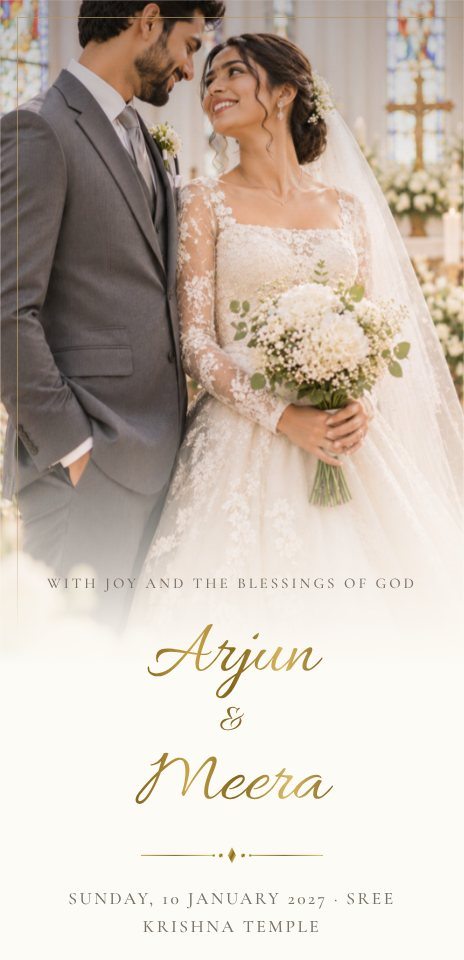
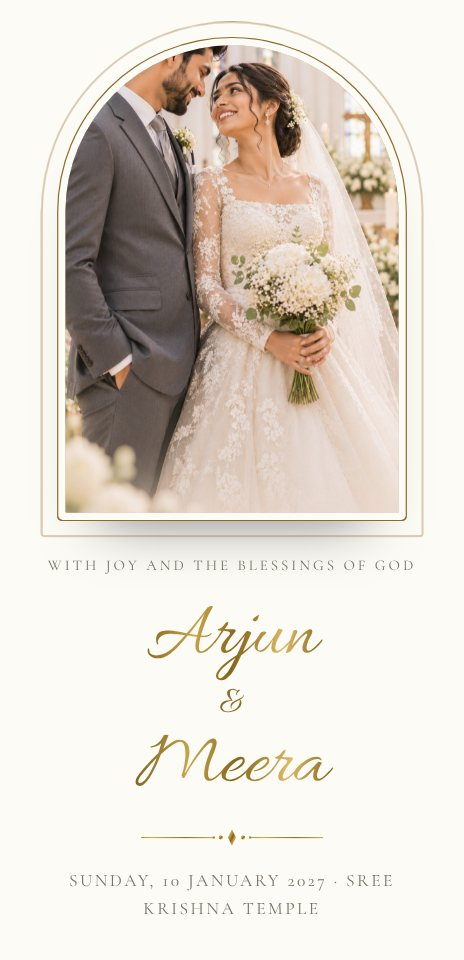
Designs open differently (arch, medallion, full screen, polaroid, split) with ticket and band event styles; new Monochrome design; demo film plays in the hero phone
Claude-Session: https://claude.ai/code/session_01HTLJ5qXdA6w9sojxHduBi6

diff --git a/assets/invite.js b/assets/invite.js
@@ -33,7 +33,8 @@
     thamara: 'family=Parisienne&family=Lora:ital,wght@0,400;0,500;1,400',
     mayil: 'family=Rouge+Script&family=EB+Garamond:ital,wght@0,400;0,500;1,400',
     jaipur: 'family=Gloock&family=Lora:ital,wght@0,400;0,500;1,400',
-    gulmohar: 'family=Tangerine:wght@700&family=Lora:ital,wght@0,400;0,500;1,400'
+    gulmohar: 'family=Tangerine:wght@700&family=Lora:ital,wght@0,400;0,500;1,400',
+    mono: 'family=Playfair+Display:ital,wght@0,400;0,500;1,400;1,500&family=Manrope:wght@300;400;500;600'
   };
   // Opening lines that suit each design when the couple leaves them empty.
   var DEFAULTS = {
@@ -44,7 +45,8 @@
     kesar: { intro: 'With the blessings of Waheguru', line: 'request your presence at their Anand Karaj' },
     gopuram: { intro: '|| Shree Ganeshaya Namah ||', line: 'invite you to grace their auspicious wedding' },
     sindoor: { intro: '|| Shubh Vivah ||', line: 'invite you to celebrate their wedding' },
-    jaipur: { intro: '|| Shubh Vivah ||', line: 'request the pleasure of your company at their wedding' }
+    jaipur: { intro: '|| Shubh Vivah ||', line: 'request the pleasure of your company at their wedding' },
+    mono: { intro: 'Save the date', line: 'are getting married' }
   };
   // Indian scripts: Google serves these with unicode-range, so they only download when the text uses them.
   var SCRIPT_FONTS = 'family=Noto+Serif+Malayalam:wght@400;600&family=Noto+Serif+Devanagari:wght@400;600&family=Noto+Serif+Kannada:wght@400;600&family=Noto+Serif+Tamil:wght@400;600&family=Noto+Serif+Telugu:wght@400;600&family=Noto+Serif+Gurmukhi:wght@400;600&family=Amiri:wght@400;700';
@@ -63,6 +65,10 @@
     if ((m = /vimeo\.com\/(?:video\/)?(\d+)/.exec(url))) return 'https://player.vimeo.com/video/' + m[1] + '?autoplay=1&muted=1&loop=1&playsinline=1';
     if ((m = /drive\.google\.com\/(?:file\/d\/|open\?id=)([\w-]{20,})/.exec(url))) return 'https://drive.google.com/file/d/' + m[1] + '/preview';
     return '';
+  }
+  // the couple's film playing silently behind the names, in place of the cover photo
+  function filmCover(url, title, poster) {
+    return '<div class="wl-slides wl-film">' + (poster ? '<img class="on" src="' + esc(poster) + '" alt="">' : '') + '<iframe src="' + esc(url.replace('controls=1', 'controls=0')) + '" title="' + esc(title) + ' film" tabindex="-1" allow="autoplay; encrypted-media" referrerpolicy="strict-origin-when-cross-origin"></iframe></div>';
   }
   var VIDEO_TITLE = { prewedding: 'Our pre-wedding film', wishes: 'Wishes from our families', story: 'Our story' };
 
@@ -253,7 +259,7 @@
   }
 
   function divider(theme) {
-    var c = theme === 'marigold' ? '#E0700A' : theme === 'mullappoo' ? '#5D8B69' : theme === 'thamara' ? '#B5546B' : theme === 'classic' ? '#2B2B2B' : theme === 'blush' ? '#C27A86' : theme === 'lavender' ? '#8C78B4' : theme === 'mehndi' ? '#C9A24A' : theme === 'bloom' ? '#C27A86' : theme === 'sage' ? '#6B7A55' : theme === 'seal' ? '#A88A5E' : theme === 'ink' ? '#5A2E2A' : theme === 'toile' ? '#2F4A7A' : foil(theme);
+    var c = theme === 'mono' ? '#1A1A1A' : theme === 'marigold' ? '#E0700A' : theme === 'mullappoo' ? '#5D8B69' : theme === 'thamara' ? '#B5546B' : theme === 'classic' ? '#2B2B2B' : theme === 'blush' ? '#C27A86' : theme === 'lavender' ? '#8C78B4' : theme === 'mehndi' ? '#C9A24A' : theme === 'bloom' ? '#C27A86' : theme === 'sage' ? '#6B7A55' : theme === 'seal' ? '#A88A5E' : theme === 'ink' ? '#5A2E2A' : theme === 'toile' ? '#2F4A7A' : foil(theme);
     return '<svg class="wl-div" viewBox="0 0 200 20" aria-hidden="true"><rect x="10" y="9.5" width="72" height="1" fill="' + c + '"/><rect x="118" y="9.5" width="72" height="1" fill="' + c + '"/>' +
       '<g fill="' + c + '" transform="translate(100,10)"><path d="M0,-8 L4,0 L0,8 L-4,0Z"/><circle cx="-11" r="2"/><circle cx="11" r="2"/><circle cx="-18" r="1.2"/><circle cx="18" r="1.2"/></g></svg>';
   }
@@ -267,7 +273,7 @@
     '<radialGradient id="wlLampIn"><stop offset="0" stop-color="#FFF4C4"/><stop offset=".7" stop-color="#FFC75A"/><stop offset="1" stop-color="#E08A1E"/></radialGradient>' +
     '</defs></svg>';
 
-  var LIGHT = { lavender: 1, mughal: 1, bloom: 1, lumiere: 1, journal: 1, vogue: 1, sage: 1, seal: 1, ink: 1, toile: 1, classic: 1, blush: 1, kasavu: 1, champagne: 1, chapel: 1, jaipur: 1, gulmohar: 1, grace: 1, mullappoo: 1, thamara: 1, marigold: 1 };
+  var LIGHT = { mono: 1, lavender: 1, mughal: 1, bloom: 1, lumiere: 1, journal: 1, vogue: 1, sage: 1, seal: 1, ink: 1, toile: 1, classic: 1, blush: 1, kasavu: 1, champagne: 1, chapel: 1, jaipur: 1, gulmohar: 1, grace: 1, mullappoo: 1, thamara: 1, marigold: 1 };
   function foil(theme) { return theme === 'grace' ? 'url(#wlSilver)' : (LIGHT[theme] ? 'url(#wlFoilD)' : 'url(#wlFoil)'); }
 
   function bokeh(seed, n, w, h) {
@@ -461,6 +467,15 @@
   /* ---------- premium art: sage, seal, ink, toile ---------- */
   var TIMELINE = { sage: 1, ink: 1, toile: 1, journal: 1 };
   var PHOTO_LED = { lumiere: 1, journal: 1, vogue: 1, bloom: 1 };
+  // Each design opens differently: the shape of the cover photo and how the names sit with it
+  var COVER = { noor: 'arch', qamar: 'arch', mughal: 'arch', jaipur: 'arch', chapel: 'arch',
+    kasavu: 'circle', mullappoo: 'circle', thamara: 'circle', nilavu: 'circle', gopuram: 'circle',
+    velvet: 'full', sindoor: 'full', kesar: 'full', marigold: 'full', mehndi: 'full', mono: 'full',
+    seal: 'polaroid', ink: 'polaroid', sage: 'polaroid',
+    grace: 'split', toile: 'split', mayil: 'split', gulmohar: 'split' };
+  // ...and lists the celebrations in its own way
+  var EVSTYLE = { champagne: 'ticket', velvet: 'ticket', mono: 'ticket', vogue: 'ticket', lumiere: 'ticket', gulmohar: 'ticket', grace: 'ticket', lavender: 'ticket',
+    sindoor: 'band', kesar: 'band', marigold: 'band', mehndi: 'band', gopuram: 'band', jaipur: 'band', mayil: 'band', noor: 'band', qamar: 'band' };
   // Premium designs get an animated header: photos fading in, plus moving decor
   var ANIM = { bloom: 'petals', mughal: 'sparkle', lumiere: 'petals', journal: 'petals', seal: 'petals', jaipur: 'petals', sage: 'petals', ink: 'petals',
     vogue: 'sparkle', velvet: 'sparkle', mayil: 'sparkle', gopuram: 'sparkle', chapel: 'sparkle', toile: 'sparkle', qamar: 'lanterns' };
@@ -582,6 +597,7 @@
       case 'mayil': return peacock() + bokeh(9, 16, 400, 700);
       case 'jaipur': return jharokha();
       case 'gulmohar': return gulmoharBranch(4, false) + gulmoharBranch(8, true);
+      case 'mono': return '<div class="wl-mono-rules" aria-hidden="true"><i></i><i></i></div>';
     }
     return '';
   }
@@ -619,16 +635,17 @@
     if (!v.events.length) return '';
     var cards = v.events.map(function (ev) {
       var map = mapLink(ev);
-      return '<article class="wl-ev">' + evIcon(ev.name) + (TIMELINE[v.theme] && ev.time ? '<p class="wl-ev-t">' + esc(time12(ev.time)) + '</p>' : '') +
+      var st = EVSTYLE[v.theme], dp = ev.date ? parts(ev.date) : null;
+      return '<article class="wl-ev">' + (st && dp ? '<div class="wl-ev-stub" aria-hidden="true"><span>' + DAYS[dp.wd].slice(0, 3) + '</span><b>' + dp.d + '</b><span>' + MONTHS[dp.mo].slice(0, 3) + '</span></div><div class="wl-ev-main">' : '') + evIcon(ev.name) + (TIMELINE[v.theme] && ev.time ? '<p class="wl-ev-t">' + esc(time12(ev.time)) + '</p>' : '') +
         '<h3>' + esc(ev.name || 'Wedding') + '</h3>' +
         (ev.date ? '<p class="wl-ev-when">' + esc(longDate(ev.date)) + (ev.time && !TIMELINE[v.theme] ? '<br>' + esc(time12(ev.time)) : '') + '</p>' : '') +
         (ev.venue ? '<p class="wl-ev-venue">' + esc(ev.venue) + '</p>' : '') +
         (ev.address ? '<p class="wl-ev-addr">' + nl2br(ev.address) + '</p>' : '') +
         '<div class="wl-ev-acts">' + (map ? '<a class="wl-btn" href="' + esc(map) + '" target="_blank" rel="noopener">Directions</a>' : '') +
         (ev.date ? '<a class="wl-btn ghost" href="' + esc(calLink(ev, title)) + '" target="_blank" rel="noopener">Add to calendar</a>' : '') + '</div>' +
-        '</article>';
+        (st && dp ? '</div>' : '') + '</article>';
     }).join('');
-    return '<section class="wl-sec wl-events' + (TIMELINE[v.theme] ? ' wl-tl' : '') + '" data-sec="events"><h2>' + (v.events.length > 1 ? 'Celebrations' : 'The celebration') + '</h2>' + divider(v.theme) + cards + '</section>';
+    return '<section class="wl-sec wl-events' + (TIMELINE[v.theme] ? ' wl-tl' : EVSTYLE[v.theme] ? ' wl-ev-' + EVSTYLE[v.theme] : '') + '" data-sec="events"><h2>' + (v.events.length > 1 ? 'Celebrations' : 'The celebration') + '</h2>' + divider(v.theme) + cards + '</section>';
   }
 
   function rsvpHtml(v, mode) {
@@ -691,6 +708,7 @@
     var first = v.main;
     var photos = v.photos;
     var showCover = opts.cover && mode !== 'editor';
+    var film = opts.filmCover && /youtube|vimeo/.test(v.video) ? filmCover(v.video, title, photos[0] || v.bg) : '';
 
     // A photo-led design's sample couple photo is only for building and browsing designs;
     // a couple's own preview and live invite never show someone else's photo.
@@ -726,7 +744,7 @@
       var heroImg = photos[0] || v.bg || '';
       var dp = first && first.date ? parts(first.date) : null;
       html += '<header class="wl-hero wl-pl" data-sec="hero">' +
-        '<div class="wl-pl-img' + (heroImg ? '' : ' none') + '" data-sec="photos">' + (heroImg ? slides(photos.length ? photos.slice(0, 5) : [heroImg], title) : '') + particles(ANIM[v.theme]) +
+        '<div class="wl-pl-img' + (heroImg ? '' : ' none') + '" data-sec="photos">' + (film || (heroImg ? slides(photos.length ? photos.slice(0, 5) : [heroImg], title) : '')) + particles(ANIM[v.theme]) +
           (mode === 'editor' && !photos.length ? '<span class="wl-pl-add">' + (heroImg ? 'Sample photo. Add yours in the Photos step' : 'Add your photo in the Photos step') + '</span>' : '') + '</div>' +
         '<div class="wl-pl-in">' +
           (v.theme === 'vogue' ? '<p class="wl-pl-kick">The wedding of</p>' : '<p class="wl-intro">' + esc(v.intro) + '</p>') +
@@ -737,7 +755,7 @@
     } else {
     if (photos[0]) {
       var cp = first && first.date ? parts(first.date) : null;
-      html += '<header class="wl-hero wl-cv" data-sec="hero"><span class="wl-cv-frame" aria-hidden="true"></span>' + slides(ANIM[v.theme] ? photos.slice(0, 5) : [photos[0]], title) + particles(ANIM[v.theme]) +
+      html += '<header class="wl-hero wl-cv wl-cv-' + (COVER[v.theme] || 'classic') + '" data-sec="hero"><span class="wl-cv-frame" aria-hidden="true"></span>' + (film || slides(ANIM[v.theme] ? photos.slice(0, 5) : [photos[0]], title)) + particles(ANIM[v.theme]) +
         '<div class="wl-cv-in"><p class="wl-intro">' + esc(v.intro) + '</p>' +
         '<h1 class="wl-names"><span>' + esc(v.p1) + '</span><span class="wl-amp">&amp;</span><span>' + esc(v.p2) + '</span></h1>' +
         divider(v.theme) +

diff --git a/assets/invite.css b/assets/invite.css
@@ -828,3 +828,98 @@
 .wl-cv-in { margin-top: -80px; }
 /* Bloom: the arch shows the couple, not the soft misty bottom of the photo */
 .wl[data-theme=bloom] .wl-pl-img .wl-slides { bottom: -34%; }
+
+/* ===================== each design opens in its own way ===================== */
+.wl-cv-arch::after, .wl-cv-circle::after, .wl-cv-polaroid::after, .wl-cv-split::after { display: none !important; }
+.wl-cv-arch .wl-slides, .wl-cv-circle .wl-slides, .wl-cv-polaroid .wl-slides, .wl-cv-split .wl-slides { -webkit-mask-image: none !important; mask-image: none !important; overflow: hidden; }
+
+/* arch window: a mihrab / palace / chapel arch */
+.wl-cv-arch { padding: 38px 0 0 !important; }
+.wl-cv-arch .wl-slides { width: 72% !important; align-self: center !important; aspect-ratio: 3 / 4.2 !important; border-radius: 999px 999px 8px 8px;
+  box-shadow: 0 0 0 6px var(--page), 0 0 0 7px var(--acc), 0 34px 50px -30px rgba(0,0,0,.55); }
+.wl-cv-arch .wl-cv-frame { inset: 18px auto auto 50% !important; width: calc(72% + 40px); height: auto !important; aspect-ratio: 3 / 4.05 !important; transform: translateX(-50%);
+  border: 1px solid var(--acc) !important; border-radius: 999px 999px 12px 12px !important; -webkit-mask-image: none !important; mask-image: none !important; opacity: .55 !important; }
+.wl-cv-arch .wl-cv-in { margin-top: 34px !important; }
+
+/* circle medallion with a slowly turning dotted ring */
+.wl-cv-circle { padding: 52px 0 0 !important; }
+.wl-cv-circle .wl-slides { width: 68% !important; align-self: center !important; aspect-ratio: 1 !important; border-radius: 50%;
+  box-shadow: 0 0 0 7px var(--page), 0 0 0 8px var(--acc), 0 34px 50px -30px rgba(0,0,0,.5); }
+.wl-cv-circle .wl-slides img { object-position: 50% 18%; }
+.wl-cv-circle .wl-cv-frame { inset: 26px auto auto 50% !important; width: calc(68% + 52px); height: auto !important; aspect-ratio: 1 !important; margin-left: calc((68% + 52px) / -2);
+  border: 1.5px dashed var(--acc) !important; border-radius: 50% !important; -webkit-mask-image: none !important; mask-image: none !important; opacity: .6 !important; animation: wlTurn 60s linear infinite; }
+@keyframes wlTurn { to { transform: rotate(360deg); } }
+.wl-cv-circle .wl-cv-in { margin-top: 40px !important; }
+
+/* full screen: photo fills the phone, names in white over it */
+.wl-cv-full { display: block !important; height: 100svh !important; min-height: 600px !important; }
+.wl-cv-full .wl-slides { position: absolute !important; inset: 0 !important; height: 100% !important; aspect-ratio: auto !important; -webkit-mask-image: none !important; mask-image: none !important; }
+.wl-cv-full .wl-slides img { object-position: 50% 22%; }
+.wl-cv-full::after { top: 0 !important; bottom: 0 !important; height: auto !important; background: linear-gradient(180deg, rgba(0,0,0,.3) 0%, transparent 26%, transparent 42%, rgba(0,0,0,.5) 66%, rgba(0,0,0,.86) 100%) !important; }
+.wl-cv-full .wl-cv-frame { inset: 14px !important; height: auto !important; aspect-ratio: auto !important; border: 1px solid rgba(255,255,255,.5) !important; border-radius: 4px !important; -webkit-mask-image: none !important; mask-image: none !important; }
+.wl-cv-full .wl-cv-in { position: absolute !important; left: 0 !important; right: 0 !important; bottom: 0 !important; margin: 0 !important; padding: 0 26px 48px !important; }
+.wl-cv-full .wl-names > span:not(.wl-amp) { background: none !important; -webkit-text-fill-color: #fff !important; color: #fff !important; text-shadow: 0 2px 22px rgba(0,0,0,.4) !important; }
+.wl-cv-full .wl-intro, .wl-cv-full .wl-pl-date { color: rgba(255,255,255,.92) !important; text-shadow: 0 1px 8px rgba(0,0,0,.5) !important; }
+.wl-cv-full .wl-amp { color: #fff !important; opacity: .85; }
+.wl-cv-full .wl-div { filter: brightness(0) invert(1); opacity: .8; }
+.wl-cv-full .wl-cv-down { border-color: rgba(255,255,255,.75) !important; }
+.wl-cv-full .wl-cv-down::after { background: #fff !important; }
+
+/* polaroid: a tilted print with tape, names written underneath */
+.wl-cv-polaroid { padding: 46px 0 0 !important; }
+.wl-cv-polaroid .wl-slides { width: 76% !important; align-self: center !important; aspect-ratio: 4 / 4.7 !important; transform: rotate(-2.5deg); margin-bottom: 52px;
+  box-shadow: 0 0 0 12px #fff, 0 46px 0 12px #fff, 0 50px 40px -8px rgba(0,0,0,.28); }
+.wl-cv-polaroid .wl-cv-frame { inset: 30px auto auto 50% !important; width: 120px; height: 32px !important; aspect-ratio: auto !important; margin-left: -60px; transform: rotate(4deg);
+  background: rgba(255,248,226,.78); border: 0 !important; border-radius: 2px !important; box-shadow: 0 1px 4px rgba(0,0,0,.18); -webkit-mask-image: none !important; mask-image: none !important; opacity: 1 !important; z-index: 4; }
+.wl-cv-polaroid .wl-cv-in { margin-top: 18px !important; }
+
+/* split: names first, photo below with a colour block behind it */
+.wl-cv-split { padding: 44px 0 40px !important; }
+.wl-cv-split .wl-cv-in { order: -1; margin-top: 0 !important; padding-bottom: 26px !important; }
+.wl-cv-split .wl-cv-down { display: none; }
+.wl-cv-split .wl-slides { width: 80% !important; align-self: flex-end !important; aspect-ratio: 4 / 5 !important; border-radius: 180px 0 0 0; z-index: 1; }
+.wl-cv-split .wl-cv-frame { inset: auto auto 18px 0 !important; width: 58%; height: 46% !important; aspect-ratio: auto !important; background: color-mix(in srgb, var(--acc) 26%, var(--page));
+  border: 0 !important; border-radius: 0 !important; -webkit-mask-image: none !important; mask-image: none !important; opacity: 1 !important; z-index: 0; }
+
+/* ===================== celebrations: ticket and band styles ===================== */
+.wl-ev-ticket .wl-ev, .wl-ev-band .wl-ev { text-align: left !important; }
+.wl-ev-ticket .wl-ev-ic, .wl-ev-band .wl-ev-ic { display: none !important; }
+.wl-ev-ticket .wl-ev-acts, .wl-ev-band .wl-ev-acts { justify-content: flex-start !important; }
+.wl-ev-stub { display: flex; flex-direction: column; align-items: center; justify-content: center; text-align: center; line-height: 1.1; }
+.wl-ev-stub span { font-size: .66em; letter-spacing: .18em; text-transform: uppercase; }
+.wl-ev-stub b { font-family: var(--fh); font-size: 2.3em; font-weight: 500; margin: 2px 0; }
+.wl-ev-ticket .wl-ev { display: flex !important; padding: 0 !important; overflow: visible; border-radius: 12px !important; }
+.wl-ev-ticket .wl-ev-stub { flex: 0 0 82px; position: relative; padding: 16px 4px; background: var(--acc2); color: var(--btnInk, #fff); border-radius: 12px 0 0 12px; border-right: 2px dashed color-mix(in srgb, #fff 55%, transparent); }
+.wl-ev-ticket .wl-ev-stub::before, .wl-ev-ticket .wl-ev-stub::after { content: ''; position: absolute; right: -9px; width: 16px; height: 16px; border-radius: 50%; background: var(--page); }
+.wl-ev-ticket .wl-ev-stub::before { top: -8px; } .wl-ev-ticket .wl-ev-stub::after { bottom: -8px; }
+.wl-ev-ticket .wl-ev-main { flex: 1; min-width: 0; padding: 18px 18px 20px; }
+.wl-ev-band .wl-ev { display: grid !important; grid-template-columns: 74px 1fr; gap: 16px; align-items: start; background: none !important; border: 0 !important; border-top: 1px solid var(--line) !important; border-radius: 0 !important; box-shadow: none !important; padding: 22px 2px !important; margin: 0 !important; }
+.wl-ev-band .wl-ev:last-of-type { border-bottom: 1px solid var(--line) !important; }
+.wl-ev-band .wl-ev-stub { width: 74px; height: 92px; padding-top: 10px; border-radius: 40px 40px 6px 6px; background: var(--acc); color: var(--btnInk, #fff); box-shadow: 0 12px 24px -14px rgba(0,0,0,.5); }
+
+/* ===================== Monochrome: black and white editorial ===================== */
+.wl[data-theme=mono] {
+  --page: #FAFAF7; --outer: #E6E6E2; --ink: #151515; --muted: #6E6E6A; --acc: #1A1A1A; --acc2: #0E0E0E;
+  --card: #FFFFFF; --line: rgba(0,0,0,.16);
+  --fs: 'Playfair Display'; --ft: 'Manrope'; --fh: 'Playfair Display'; --names: clamp(2.9rem, 14.5vw, 5rem); --tsize: .98rem;
+  --btn: #111; --btnInk: #fff; --foil: linear-gradient(#111, #111); --grain: .05; --photo-r: 0; --veil: rgba(250,250,247,.6);
+}
+.wl[data-theme=mono] .wl-slides img, .wl[data-theme=mono] .wl-ph img, .wl[data-theme=mono] .wl-pl-img img { filter: grayscale(1) contrast(1.1); }
+.wl[data-theme=mono] .wl-names { font-style: italic; font-weight: 400; letter-spacing: -.01em; }
+.wl[data-theme=mono] .wl-names .wl-amp { font-style: normal; font-family: 'Manrope'; font-weight: 300; font-size: .32em; letter-spacing: .4em; text-transform: uppercase; }
+.wl[data-theme=mono] .wl-intro { font-family: 'Manrope'; letter-spacing: .34em; text-transform: uppercase; font-size: .68em; font-weight: 500; }
+.wl[data-theme=mono] h2 { font-style: italic; font-weight: 400; font-size: 2rem; }
+.wl[data-theme=mono] .wl-sec { border-top: 1px solid var(--line); }
+.wl[data-theme=mono] .wl-btn { border-radius: 0 !important; letter-spacing: .16em; text-transform: uppercase; font-size: .74em; font-weight: 600; }
+.wl[data-theme=mono] .wl-ev, .wl[data-theme=mono] .wl-cd > div, .wl[data-theme=mono] .wl-ph { border-radius: 0 !important; }
+.wl[data-theme=mono] .wl-ev-ticket .wl-ev-stub { border-radius: 0; }
+.wl[data-theme=mono] .wl-date-d { font-style: italic; }
+.wl-mono-rules i { position: absolute; left: 22px; right: 22px; height: 1px; background: #151515; }
+.wl-mono-rules i:first-child { top: 26px; } .wl-mono-rules i:last-child { top: 32px; }
+/* film cover: the video plays silently, cropped to fill the cover shape */
+.wl-film { overflow: hidden; background: #111; }
+.wl-film iframe { position: absolute; top: 50%; left: 50%; width: 400%; aspect-ratio: 16 / 9; height: auto; border: 0; transform: translate(-50%, -50%); pointer-events: none; }
+.wl-cv-frame + .wl-film, .wl-pl-img .wl-film { opacity: 1; }
+.wl-cv-full .wl-cv-in { background: none !important; }
+.wl-cv-full .wl-cv-in::before, .wl-cv-full .wl-cv-in::after { display: none !important; }
+.wl-film img { animation: none !important; } .wl-film iframe { z-index: 1; }

diff --git a/assets/landing.js b/assets/landing.js
@@ -32,11 +32,12 @@
   function sample() { return WL_SAMPLES.get(WL_SAMPLES.faith(state.theme)); }
   // real photos uploaded in Admin → Images (Home page demo) make the preview feel real
   var DEMO_PHOTOS = window.WL_DEMO_PHOTOS || [];
-  function data() { var s = sample(); return Object.assign({}, s, { theme: state.theme, p1: state.p1 || s.p1, p2: state.p2 || s.p2, brand: 'TheWedLink' }, DEMO_PHOTOS.length ? { photos: DEMO_PHOTOS, plan: 'premium' } : {}); }
+  var DEMO_VIDEO = window.WL_DEMO_VIDEO || '';
+  function data() { var s = sample(); return Object.assign({}, s, { theme: state.theme, p1: state.p1 || s.p1, p2: state.p2 || s.p2, brand: 'TheWedLink' }, DEMO_PHOTOS.length ? { photos: DEMO_PHOTOS, plan: 'premium' } : {}, DEMO_VIDEO ? { video: DEMO_VIDEO, plan: 'premium' } : {}); }
   function paint() {
     if (!ready) return;
     try {
-      frame.contentWindow.wlRender(data(), first ? { mode: 'demo', cover: true, autoOpen: 1300 } : { mode: 'editor', keepScroll: !state.jump });
+      frame.contentWindow.wlRender(data(), first ? { mode: 'demo', cover: true, autoOpen: 1300, filmCover: true } : { mode: 'editor', keepScroll: !state.jump, filmCover: true });
       if (state.jump) frame.contentWindow.scrollTo(0, 0);
       first = false; state.jump = false;
     } catch (e) {}

diff --git a/assets/create.js b/assets/create.js
@@ -13,7 +13,7 @@
     sikh: ['Anand Karaj', 'Roka', 'Mehendi', 'Jaago', 'Milni', 'Reception'],
     modern: ['Wedding', 'Engagement', 'Sangeet', 'Mehendi', 'Cocktail', 'Reception']
   };
-  var PRIMARY = { lavender: 'modern', mehndi: 'hindu', mughal: 'muslim', bloom: 'modern', lumiere: 'modern', journal: 'modern', vogue: 'modern', sage: 'modern', seal: 'modern', ink: 'modern', toile: 'modern', classic: 'modern', blush: 'modern', noor: 'muslim', qamar: 'muslim', chapel: 'christian', grace: 'christian', kesar: 'sikh', champagne: 'modern', velvet: 'modern', gulmohar: 'modern' };
+  var PRIMARY = { mono: 'christian', lavender: 'modern', mehndi: 'hindu', mughal: 'muslim', bloom: 'modern', lumiere: 'modern', journal: 'modern', vogue: 'modern', sage: 'modern', seal: 'modern', ink: 'modern', toile: 'modern', classic: 'modern', blush: 'modern', noor: 'muslim', qamar: 'muslim', chapel: 'christian', grace: 'christian', kesar: 'sikh', champagne: 'modern', velvet: 'modern', gulmohar: 'modern' };
   function eventNames() { return EVENT_SETS[PRIMARY[data.theme] || 'hindu']; }
   var MAX_PHOTOS = 15;
 

diff --git a/assets/samples.js b/assets/samples.js
@@ -16,7 +16,7 @@ window.WL_SAMPLES = (function () {
     modern: { c: 'Vikram Rao', p1: 'Rahul', p2: 'Ananya', p1_family: 'Son of Vikram & Priya Rao, Bengaluru', p2_family: 'Daughter of Anil & Kavita Shetty, Mangaluru',
       events: [['Sangeet', 71, '19:00', 'The Tamarind Tree', 'Kanakapura Road, Bengaluru'], ['Wedding', 72, '11:00', 'The Leela Palace', 'Old Airport Road, Bengaluru'], ['Reception', 72, '19:30', 'The Leela Palace', 'Bengaluru']] }
   };
-  var PRIMARY = { noor: 'muslim', qamar: 'muslim', chapel: 'christian', grace: 'christian', kesar: 'sikh', champagne: 'modern', velvet: 'modern', gulmohar: 'modern' };
+  var PRIMARY = { mono: 'christian', noor: 'muslim', qamar: 'muslim', chapel: 'christian', grace: 'christian', kesar: 'sikh', champagne: 'modern', velvet: 'modern', gulmohar: 'modern' };
   return {
     faith: function (theme) { return PRIMARY[theme] || 'hindu'; },
     get: function (faith) {

diff --git a/index.php b/index.php
@@ -16,7 +16,7 @@ $swatch = [
     'noor' => 'radial-gradient(circle at 50% 35%,#E3C26E 0 14%,#145A44 15%)', 'chapel' => 'linear-gradient(160deg,#3B5BA9,#C9506E 55%,#E7A93C)',
     'sindoor' => 'radial-gradient(circle at 50% 40%,#E9C46A 0 16%,#C9727F 17%)', 'kesar' => 'linear-gradient(135deg,#F4A21C 0 30%,#172C6E 30%)',
     'gopuram' => 'linear-gradient(180deg,#E8C26A 0 35%,#5E1020 35%)', 'velvet' => 'radial-gradient(circle at 50% 100%,#E5C37A 0 30%,#4A5739 31%)',
-    'qamar' => 'radial-gradient(circle at 65% 35%,#F5DFA8 0 15%,#1B1440 16%)', 'grace' => 'linear-gradient(135deg,#DCE6EE,#8EA3B6)',
+    'qamar' => 'radial-gradient(circle at 65% 35%,#F5DFA8 0 15%,#1B1440 16%)', 'grace' => 'linear-gradient(135deg,#DCE6EE,#8EA3B6)', 'mono' => 'linear-gradient(135deg,#FAFAF7 0 50%,#151515 50%)',
     'marigold' => 'radial-gradient(circle at 30% 30%,#F7B500 0 22%,transparent 23%),radial-gradient(circle at 70% 30%,#F07B0A 0 22%,transparent 23%),#FFF1C9',
     'nilavu' => 'radial-gradient(circle at 68% 32%,#F6E7B8 0 14%,#13214A 15%)', 'mullappoo' => 'radial-gradient(circle,#fff 0 22%,#CFE3D4 23% 30%,#F2F8F3 31%)',
     'thamara' => 'radial-gradient(ellipse at 50% 70%,#F3B3C1 0 30%,#F1F2EA 31%)', 'mayil' => 'radial-gradient(circle at 50% 45%,#173E8C 0 12%,#0F9AA0 13% 22%,#E2C46F 23% 28%,#0D4651 29%)',
@@ -66,7 +66,7 @@ site_head('Premium Wedding Website Designs & Biodata Maker | ' . $brand,
         <div class="fan">
           <div class="hero-card l" aria-hidden="true"><img src="<?= asset('assets/img/designs/noor-art.jpg') ?>" alt="" width="232" height="480" fetchpriority="low"></div>
           <div class="hero-card r" aria-hidden="true"><img src="<?= asset('assets/img/designs/kasavu-art.jpg') ?>" alt="" width="232" height="480" fetchpriority="low"></div>
-          <div class="phone front"><iframe id="demo" src="/frame.php" title="Live invite preview" loading="eager"></iframe></div>
+          <div class="phone front"><iframe id="demo" src="/frame.php" title="Live invite preview" loading="eager" allow="autoplay; encrypted-media; picture-in-picture"></iframe></div>
         </div>
         <div class="hero-cta-m">
           <a class="btn js-make" href="/create">Make our website <svg viewBox="0 0 20 20" aria-hidden="true"><path d="M4 10h11M11 5l5 5-5 5" fill="none" stroke="currentColor" stroke-width="2" stroke-linecap="round" stroke-linejoin="round"/></svg></a>
@@ -171,6 +171,7 @@ site_head('Premium Wedding Website Designs & Biodata Maker | ' . $brand,
 </main>
 <?php site_footer(); ?>
 <?= sticky_cta() ?>
+<script>window.WL_DEMO_VIDEO = <?= json_encode(setting('demo_video'), JSON_HEX_TAG | JSON_HEX_AMP | JSON_HEX_APOS | JSON_HEX_QUOT) ?>;</script>
 <script>window.WL_DEMO_PHOTOS = <?= json_for_script(array_values(array_filter([slot_url('demo-1'), slot_url('demo-2'), slot_url('demo-3')]))) ?>;</script>
 <script>window.WL_THEMES = <?= json_for_script(array_map(fn($t) => ['name' => $t['name'], 'tags' => $t['tags']], THEMES)) ?>;</script>
 <script src="<?= asset('assets/samples.js') ?>"></script>

diff --git a/i.php b/i.php
@@ -38,7 +38,7 @@ $desc = $main ? date('l, j F Y', strtotime($main['date'])) . ($main['venue'] ? '
 $og = $d['photos'] ? base_url() . $d['photos'][0] : base_url() . asset('assets/og/' . $d['theme'] . '.jpg');
 $colors = ['lavender' => '#F1EBF9', 'mehndi' => '#1E4A35', 'mughal' => '#F6EDD8', 'bloom' => '#FBE4E7', 'lumiere' => '#FBF8F3', 'journal' => '#FBF6EE', 'vogue' => '#F7F5F1', 'sage' => '#F6F3EA', 'seal' => '#EFE6D7', 'ink' => '#F7F2EA', 'toile' => '#F8F6F0', 'classic' => '#FBF8F2', 'blush' => '#FBE4E7', 'kasavu' => '#FBF7EC', 'sindoor' => '#6E0B1D', 'marigold' => '#FFF1C9', 'nilavu' => '#0B1533', 'mullappoo' => '#F2F8F3', 'thamara' => '#FADDE3',
     'champagne' => '#FFF8F3', 'noor' => '#0E3B2E', 'chapel' => '#FDFBF6', 'kesar' => '#172C6E', 'gopuram' => '#5E1020', 'velvet' => '#4A0A22',
-    'qamar' => '#120E2E', 'grace' => '#DCE6EE', 'mayil' => '#0D4651', 'jaipur' => '#EFB9A8', 'gulmohar' => '#FFF4E6'];
+    'qamar' => '#120E2E', 'grace' => '#DCE6EE', 'mayil' => '#0D4651', 'jaipur' => '#EFB9A8', 'gulmohar' => '#FFF4E6', 'mono' => '#FAFAF7'];
 ?>
 <!doctype html>
 <html lang="en">

diff --git a/lib/slots.php b/lib/slots.php
@@ -61,6 +61,7 @@ const SAMPLE_PROMPTS = [
     'thamara' => 'Indian couple by a lotus pond at sunrise, the bride in a soft pink silk saree, the groom in an ivory kurta with a pink stole, pink lotus flowers in the water.',
     'gulmohar' => 'Indian couple under a flowering red gulmohar tree, the bride in a coral silk saree, the groom in an ivory kurta, red petals falling around them, bright summer light.',
     'lavender' => 'Couple walking through a lavender field, the bride in a lilac lehenga with a sheer dupatta, the groom in a cream kurta with a lilac stole, soft evening light.',
+    'mono' => 'Black and white fashion-editorial portrait of an Indian bride and groom, the bride in an ivory lace gown with a long veil, the groom in a dark suit, foreheads touching, strong contrast, timeless.',
     'mehndi' => 'Bride and groom at their mehndi ceremony, the bride showing her hennaed hands, wearing a green and gold lehenga, the groom in a pale green kurta, floor cushions and marigolds, warm light.',
 ];
 

diff --git a/lib/bootstrap.php b/lib/bootstrap.php
@@ -41,6 +41,7 @@ const THEMES = [
     'mayil'     => ['name' => 'Mayil',     'note' => 'Peacock feathers in teal and gold', 'tags' => ['hindu', 'kerala', 'modern'], 'tier' => 'premium'],
     'qamar'     => ['name' => 'Qamar',     'note' => 'Midnight lanterns and a crescent moon', 'tags' => ['muslim'], 'tier' => 'premium'],
     'chapel'    => ['name' => 'Chapel',    'note' => 'Stained-glass arch and a gold cross', 'tags' => ['christian', 'kerala'], 'tier' => 'premium'],
+    'mono'      => ['name' => 'Monochrome', 'note' => 'Black and white, like a fashion editorial', 'tags' => ['modern', 'christian', 'hindu', 'muslim', 'sikh', 'kerala'], 'tier' => 'premium'],
     'jaipur'    => ['name' => 'Jaipur',    'note' => 'Pink sandstone palace arches', 'tags' => ['hindu', 'sikh'], 'tier' => 'premium'],
 ];
 
